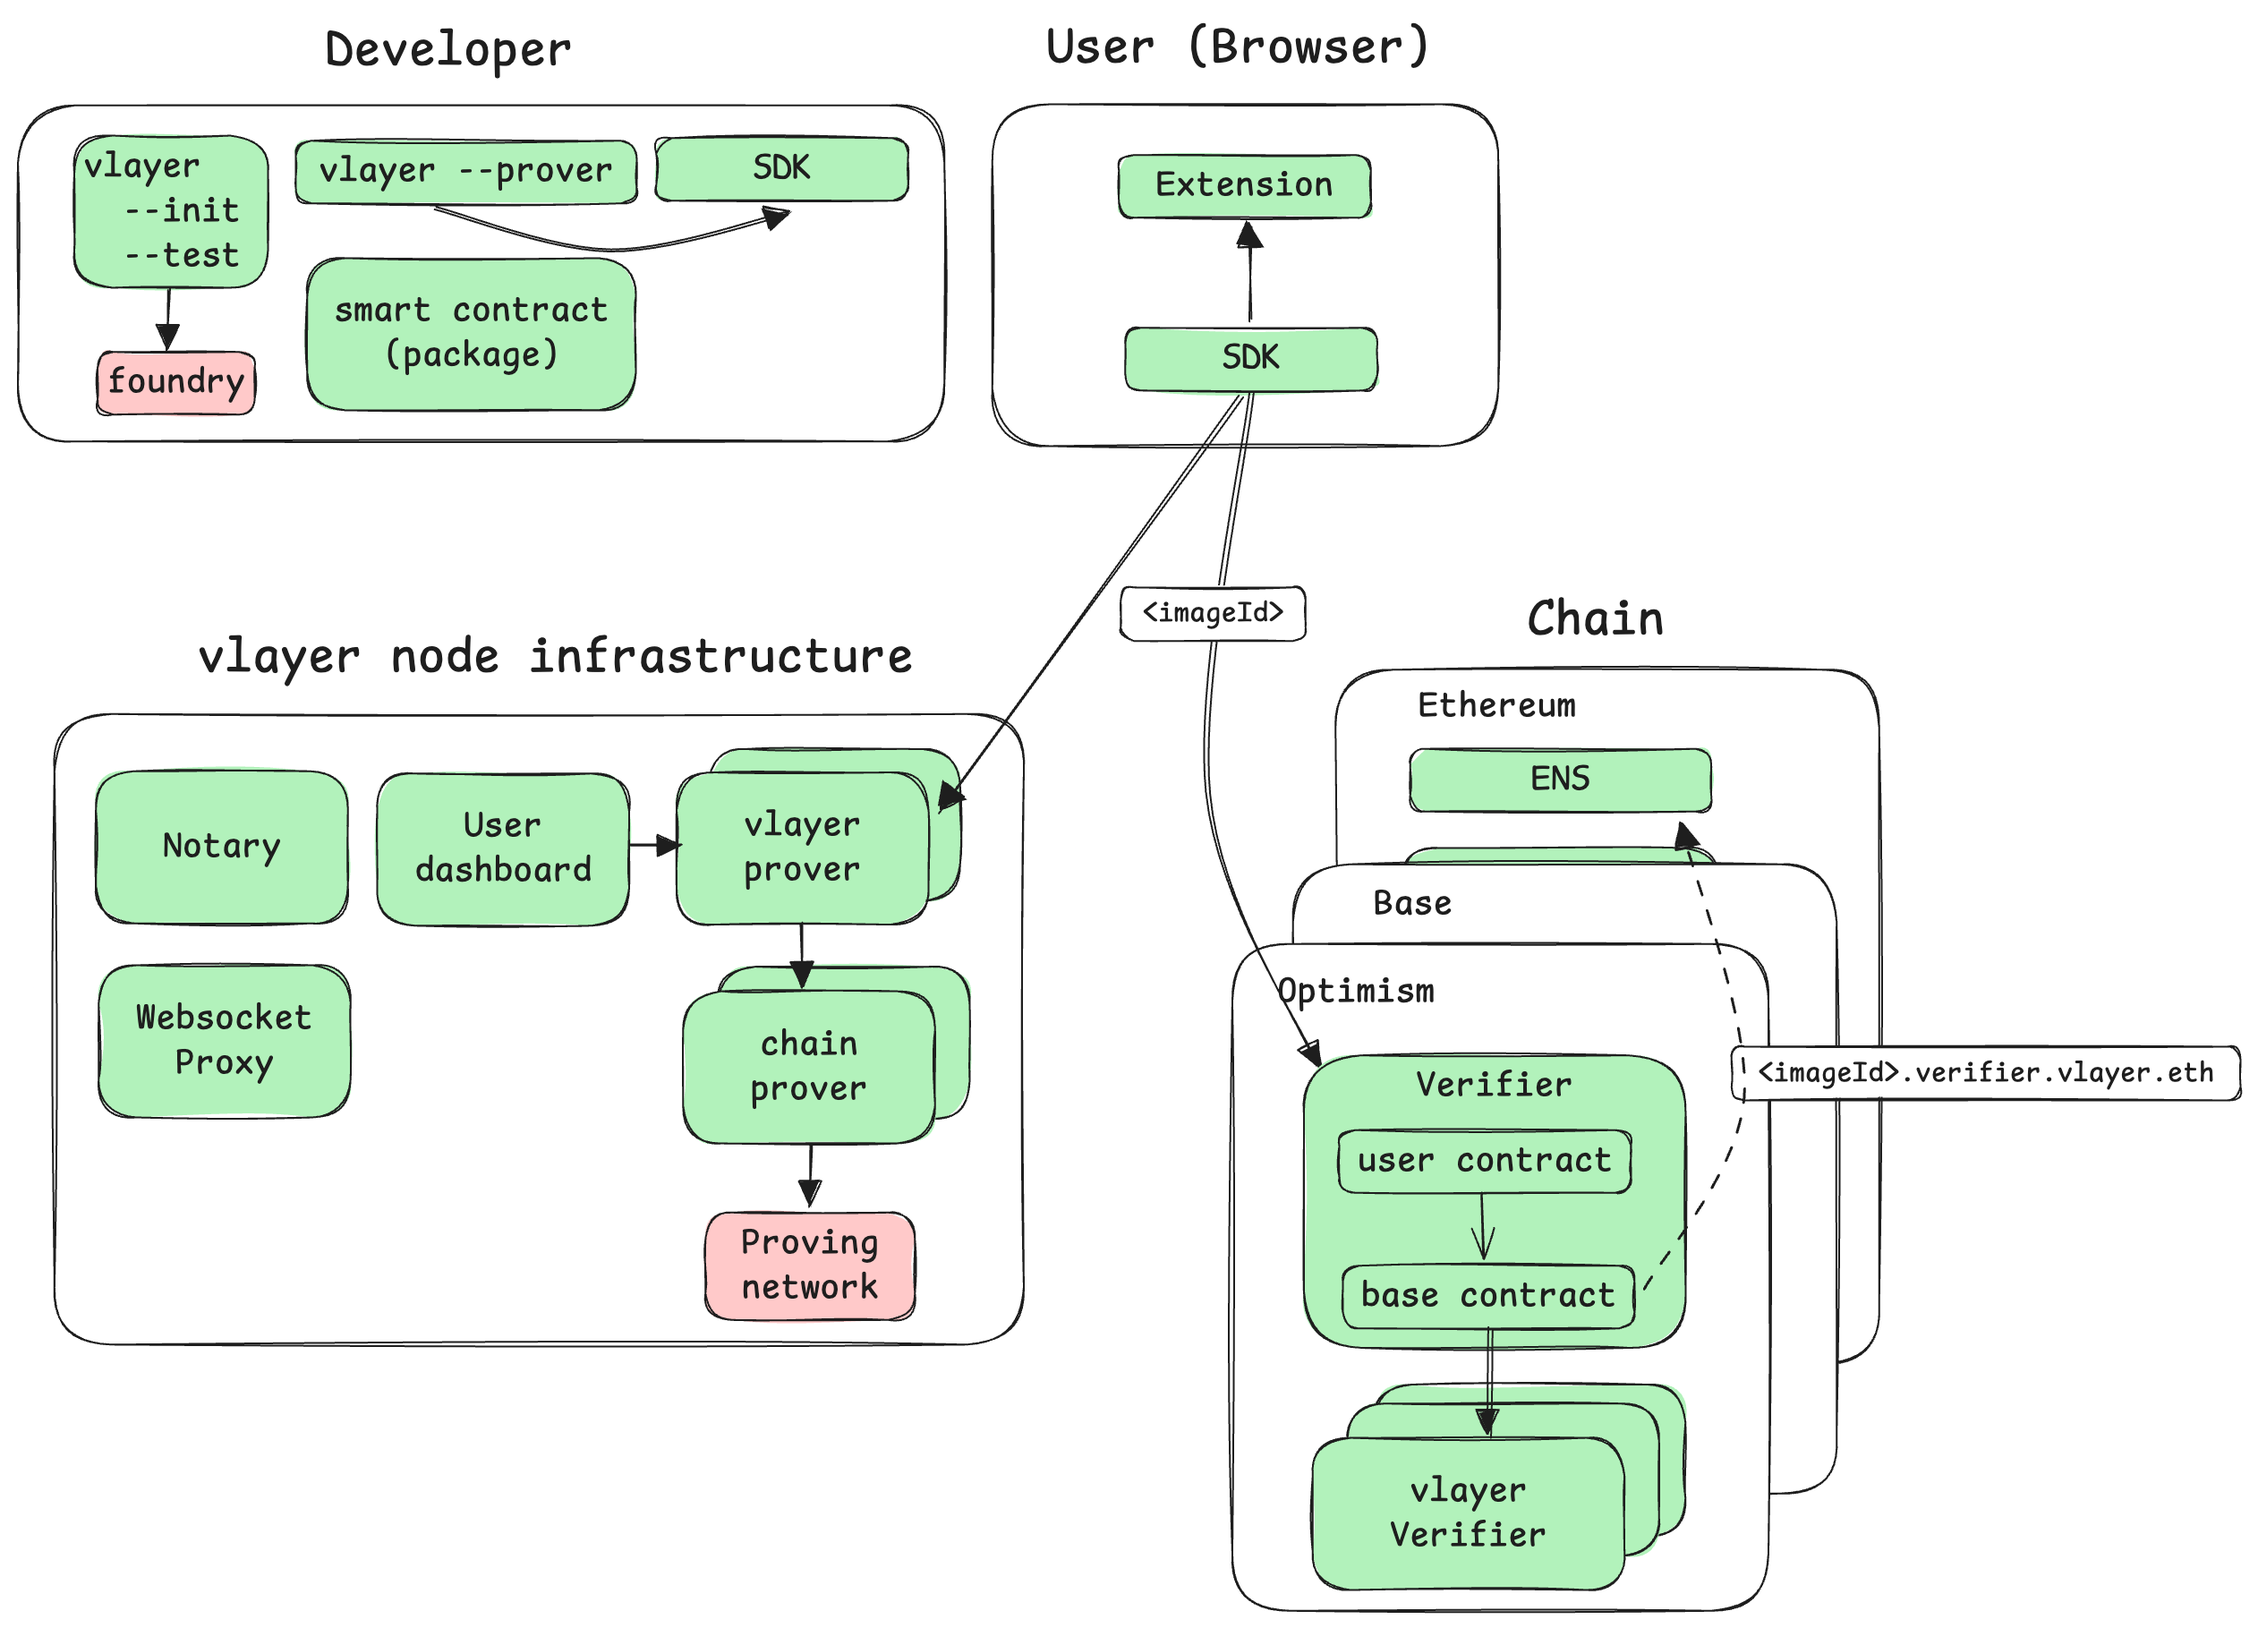
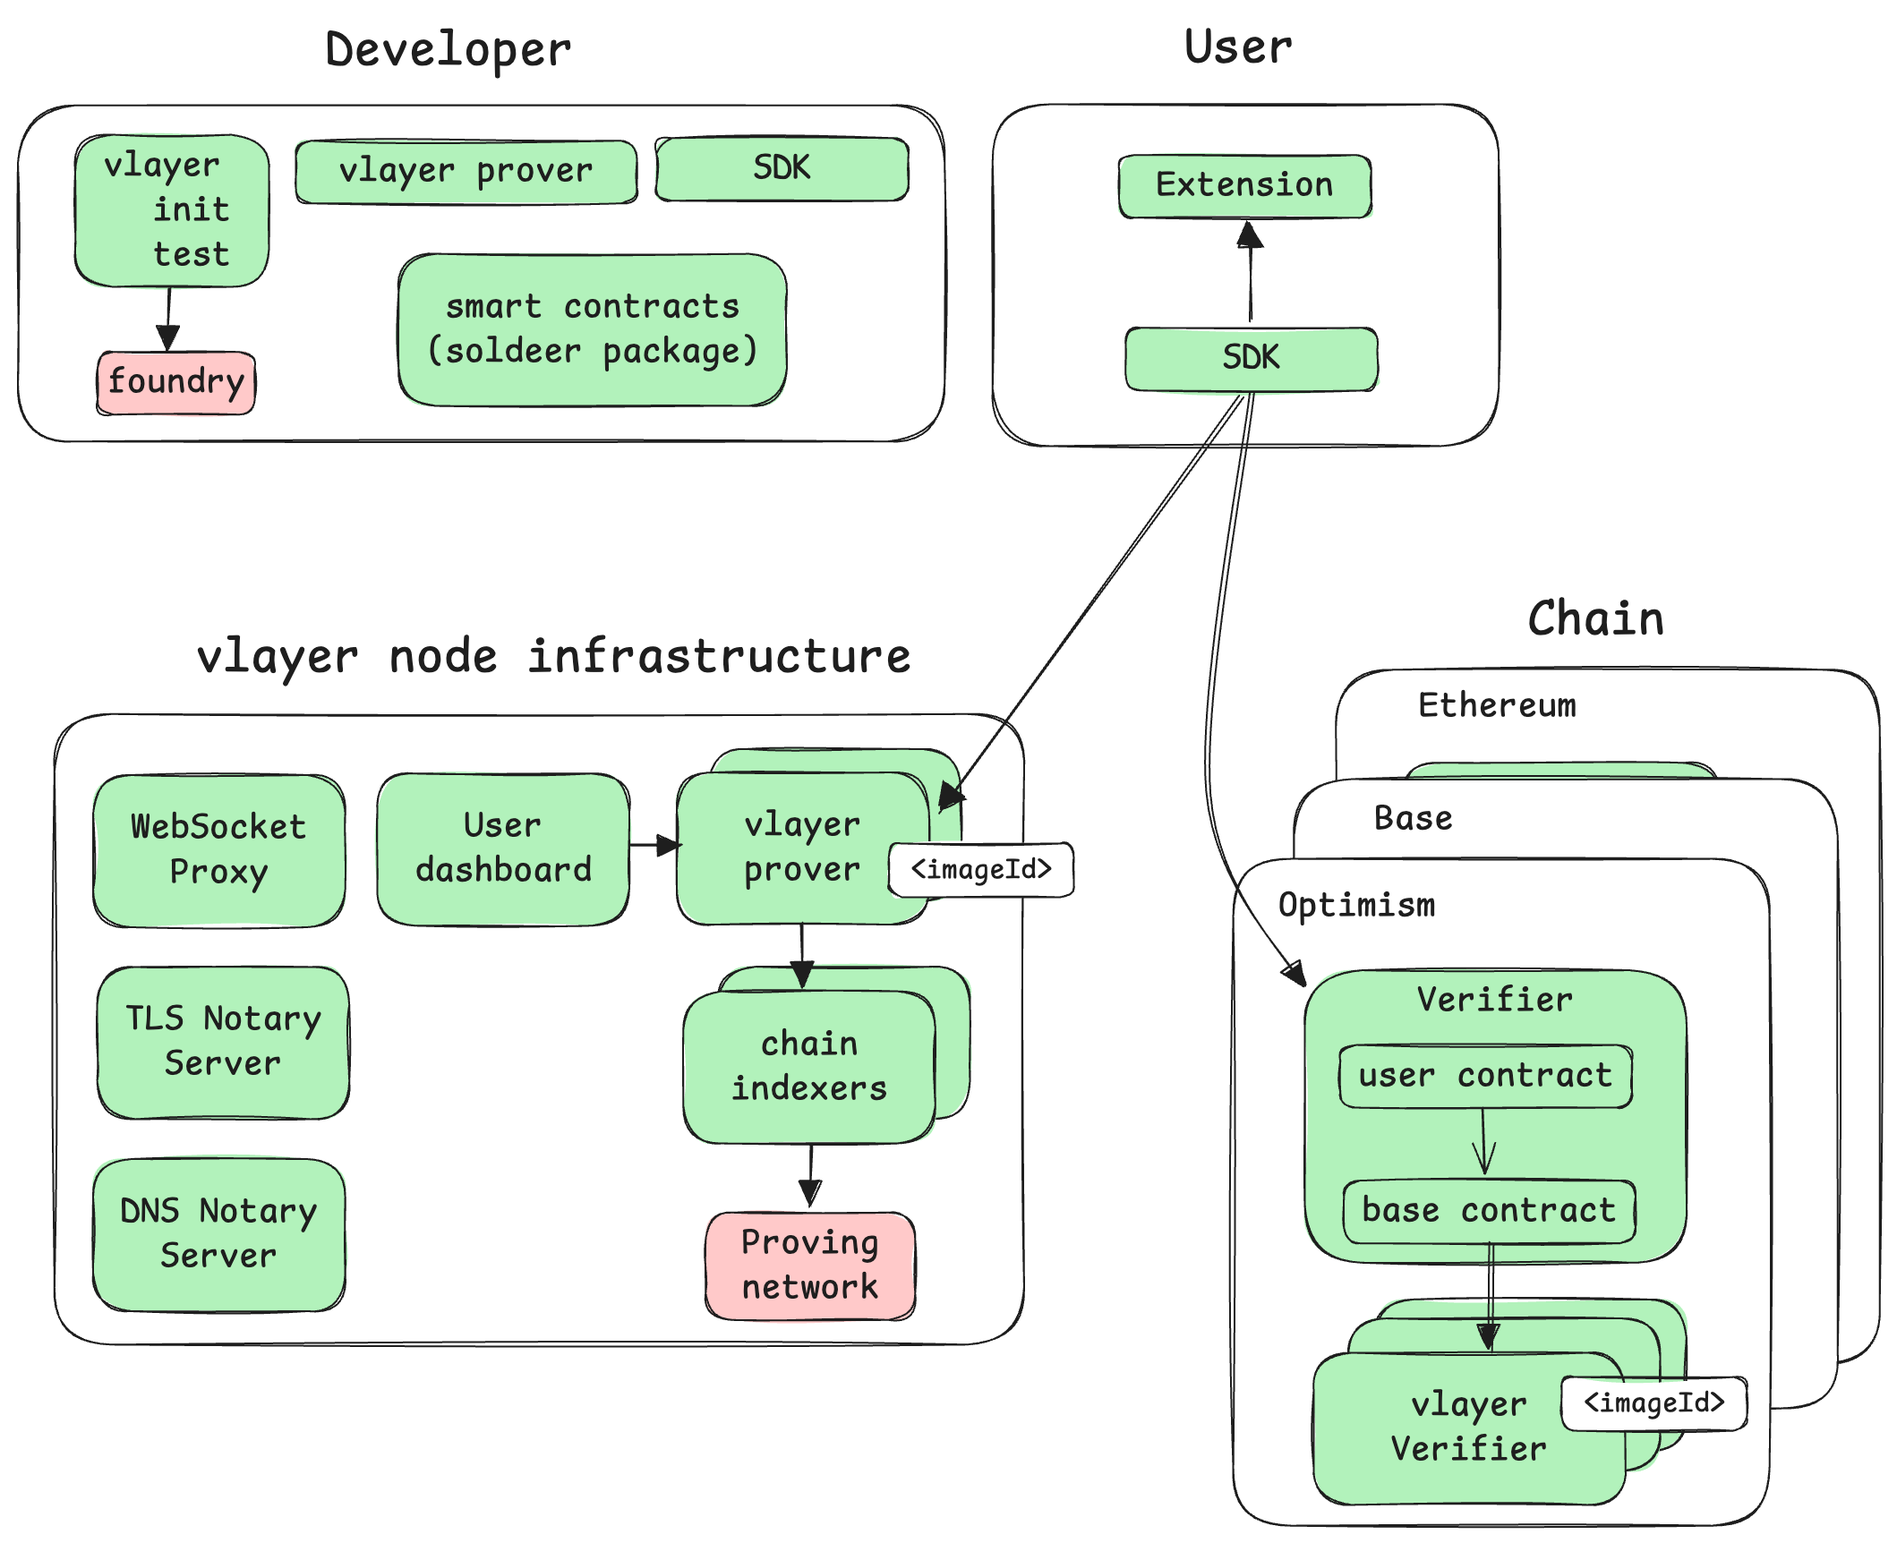
docs(book): Update the releasing section (#2530)

diff --git a/book/src/appendix/architecture/releasing.md b/book/src/appendix/architecture/releasing.md
@@ -16,92 +16,92 @@ The diagram below illustrates these environments, along with associated artifact
 ## User Experience
 
 From a delivery perspective, the key aspects of user experience are:
+
 - Reliable, functioning software
 - Clear error messages when issues arise
 - An easy update process for deprecated software
 
 Users primarily interact with two main artifacts:
+
 - The SDK, embedded within the developer's web application
 - The developer's smart contracts, which interface with vlayer smart contracts
 - Optionally, a browser extension if the user is engaging with Web Proofs
 
 Unfortunately, both the user and vlayer have limited control over the SDK version in use. The SDK is implemented by the developer and updated only at the developer’s discretion.
 
+## Developer Experience
 
-## Developer Experience 
+### Nightly and Stable Versions
 
-### Alpha and Beta Versions
+To ensure developers have the best possible experience, we recommend always using the most recent version of vlayer.
 
-To ensure developers have the best possible experience, we will encourage and/or require them to always update to the most recent version of vlayer. Our goal is to release new versions daily. This approach ensures that:
+A nightly version is published daily and stable version is released regularly and includes tested features and fixes.
 
 - Developers have access to the latest features and bug fixes.
 - We can guarantee compatibility among various artifacts.
 
 A potential downside of this approach is that it may require developers to address bugs in their code caused by breaking changes in vlayer.
 
-### Production
-
-In the production environment, we still want to encourage developers to update to the latest version; however, we may choose to:
-
-- Release new versions less frequently (e.g., weekly).
-- Avoid introducing breaking changes and changes to audited code.
+We recommend using stable version for production.
+Use nightly versions if you're developing integrations or need early access to new features.
 
 ## Artifacts and Deployment Cycles
 
 Each environment includes multiple artifacts, each with distinct deployment cycle limitations, as detailed below.
 
-### User Environment (Web Browser)
+### User Environment
 
 - **SDK**
-    - **Release**: vlayer releases new SDK versions daily.
-    - **Installation**: Developers add the SDK to their project dependencies.
-    - **Updates**: Neither vlayer nor the user can enforce SDK version updates, making SDK updates the least controllable in terms of version management on the user's end.
+  - **Release**: vlayer releases new SDK versions in nightly and stable channels.
+  - **Installation**: Developers add the SDK to their project dependencies.
+  - **Updates**: Neither vlayer nor the user can enforce SDK version updates, making SDK updates the least controllable in terms of version management on the user's end.
 
 ### Developer Environment (Command Line Tools)
 
-- **vlayer Command Line Tool** - Used in different contexts:
-    - With `init` and `test` flags, tightly integrated with Foundry
-    - With `prover`, an optional dependency for local development
+- **vlayer Command Line Tools** - Used in different contexts:
+  - `vlayer` with `init` and `test` flags, tightly integrated with Foundry
+  - `call_server`, an optional dependency for local development without relying on the vlayer node infrastructure for proving
 - **Local Development SDK**
 - **vlayer Smart Contracts** - Managed via Soldeer
 - **Foundry** - An external dependency requiring updates synchronized with vlayer to:
-    - Ensure `test` and `init` commands operate in the same directory as `forge` and other tools
-    - Support the latest REVM (Rust Ethereum Virtual Machine) changes, including hard-fork and network compatibility
+  - Ensure `test` and `init` commands operate in the same directory as `forge` and other tools
+  - Support the latest REVM (Rust Ethereum Virtual Machine) changes, including hard-fork and network compatibility
 
-Updating these artifacts is encouraged or enforced through vlayer CLI commands (`test`, `init`, `prove`) and is executable via `vlayer update`.
+Updating these artifacts is encouraged and is executable via `vlayer update`.
 
 ### Blockchain Networks (Smart Contracts)
 
 - **User’s Smart Contract** - Derived from the `Verifier` base class, with deployment managed externally
-- **Verifier Helper Smart Contract** - Often deployed daily
+- **Verifier Helper Smart Contract** - Soldeer package released in Nightly/Stable cycle. Most important contracts are deployed at [stable addresses](../security.md#verifier-smart-contracts).
 
 ### vlayer Node Infrastructure (Servers)
 
 - **User Dashboard** - A user interface for managing proof history and purchasing
 - **vlayer Prover** - A server for executing `Prover` operations
-- **Chain Proves Cache** - A server for pre-proving on-chain data, including a JSON RPC server and worker components
-- **Notary** - Manages notarization in the Web Proofs context, deployed as needed
+- **Chain Indexers** - A server for maintaining a [Chain Proof Cache](../architecture/chain_proof/coherence.md#chain-proof-cache), including a JSON RPC server and worker components
+- **TLS Notary Server** - Manages notarization in the Web Proofs context, deployed as needed
+- **DNS Notary Server** - Manages notarization in the Email Proofs context, deployed as needed
 - **WebSocket Proxy** - Handles TCP/IP connection proxying for Web Proofs, deployed as required
 - **Additional Components** - Includes monitoring infrastructure and networked proving systems
 
 All server infrastructure may undergo daily deployments to accommodate updates.
 
-|Artefact          |Destination|Release|Installation|Update|
-|------------------|-----------|-------|------------|------|
-|**User**|         |           |       |            |      |
-|SDK| 	Developers' app	| uncontrollable	|  |	uncontrollable |
-|**Developer**|
-|Smart Contracts package | Soldeer | daily| `soldeer` | `vlayer update` |
-|vlayer (cli + prover) | GitHub | daily | `vlayerup` | `vlayer update` |
-|SDK|  Npm | daily | `npm install` | `vlayer update` |
-|foundry|  | foundryup |  `foundry up` | `vlayer update` |
-|**Chains**|   |  |  |  |  |
-|User's contracts | Blockchain | uncontrollable | - | uncontrollable |
-|vlayer contracts  | Blockchain | daily | - | - |
-| **vlayer infrastructure** |  |  |  |  |
-|user dashboard | Server | daily | - | - |
-|vlayer prover | Server | daily | - | - |
-|block cache | Server | daily | - | - |
-|notary| Server | daily | - | - |
-|web socket proxy | Server | daily | | | |
-|proving network (Bonsai) | Server| | | uncontrollable |
+| Artifact                         | Destination            | Release Frequency | Installation/Update Method      | Update Control        |
+|----------------------------------|------------------------|-------------------|---------------------------------|-----------------------|
+| **User Environment**             |                        |                   |                                 |                       |
+| SDK                              | Developer's app        | Uncontrollable    | `npm install`                   | Uncontrollable        |
+| **Developer Environment**        |                        |                   |                                 |                       |
+| Smart Contracts package          | Soldeer                | Nightly/Stable    | `soldeer` / `vlayer update`     | Developer             |
+| vlayer CLI + prover              | GitHub                 | Nightly/Stable    | `vlayerup` / `vlayer update`    | Developer             |
+| SDK (local)                      | npm                    | Nightly/Stable    | `npm install` / `vlayer update` | Developer             |
+| Foundry                          |                        | As needed         | `foundryup`                     | Developer             |
+| **Blockchain Networks**          |                        |                   |                                 |                       |
+| User's contracts                 | Blockchain             | Uncontrollable    | `soldeer install`               | Uncontrollable        |
+| vlayer contracts                 | Blockchain             | Nightly/Stable    | -                               | vlayer                |
+| **vlayer Node Infrastructure**   |                        |                   |                                 |                       |
+| User dashboard                   | Server                 | Daily             | -                               | vlayer                |
+| vlayer prover                    | Server                 | Nightly/Stable    | -                               | vlayer                |
+| Chain Indexers                   | Server                 | Stable            | -                               | vlayer                |
+| Notary Servers (TLS/DNS)         | Server                 | As needed         | -                               | vlayer                |
+| WebSocket proxy                  | Server                 | As needed         | -                               | vlayer                |
+| Proving network (Bonsai)         | Server                 | Uncontrollable    | -                               | Uncontrollable        |

diff --git a/book/src/appendix/security.md b/book/src/appendix/security.md
@@ -17,3 +17,27 @@ Addresses:
 | Ethereum  | 0xb06DB7A76f861874a2634200029BbE63Af5Be7CC | [Etherscan](https://etherscan.io/address/0xb06DB7A76f861874a2634200029BbE63Af5Be7CC)                       |
 | Optimism  | 0x6924C300F8b7751f8c1Fa5A14e674A5B519645E1 | [Optimistic Etherscan](https://optimistic.etherscan.io/address/0x6924C300F8b7751f8c1Fa5A14e674A5B519645E1) |
 | Base      | 0xBa8aA379D4Bf594b70Da1C414c5765ebC8223174 | [Basescan](https://basescan.org/address/0xBa8aA379D4Bf594b70Da1C414c5765ebC8223174)                        |
+
+## Verifier Smart Contracts
+
+vlayer provides base classes from which the developer derives their own smart contracts.
+
+> Note: On testnet, contracts support [fake proofs](../getting-started/dev-and-production.md#fake-mode) for faster development and testing.
+>
+> On mainnet, only [real Groth16 proofs](../getting-started/dev-and-production.md#groth16-mode) are valid.
+
+### Mainnet Addresses
+
+| Contract               | Address                                      |
+|------------------------|----------------------------------------------|
+| Repository             | `0x42fc5CdBfA5E4699C0e1e0adD0c4BC421d80482F` |
+| Groth16ProofVerifier   | `0xb8Be5BdCD6387332448f551cFe7684e50d9E108C` |
+
+### Testnet addresses
+
+| Contract               | Address                                      |
+|------------------------|----------------------------------------------|
+| Repository             | `0xAD04462241343F0775315B2873E6fe6DffCce831` |
+| Groth16ProofVerifier   | `0x074Fc67dA733FFA5B288a9d5755552e61a1A0a06` |
+| FakeProofVerifier      | `0xeF2f0Cbb90821E1C5C46CE5283c82F802F65a3f3` |
+| ProofVerifierRouter    | `0x7d441696a6F095B3Cd5e144ccBCDB507e0ce124e` |
